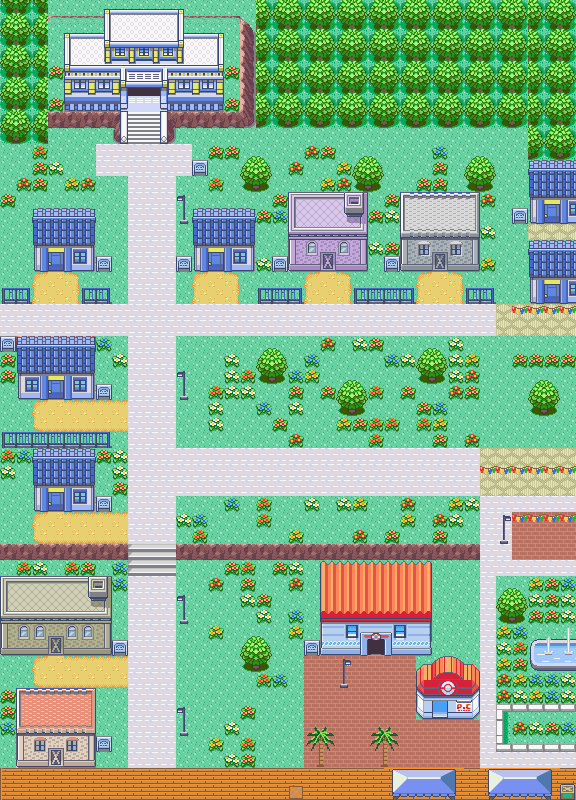
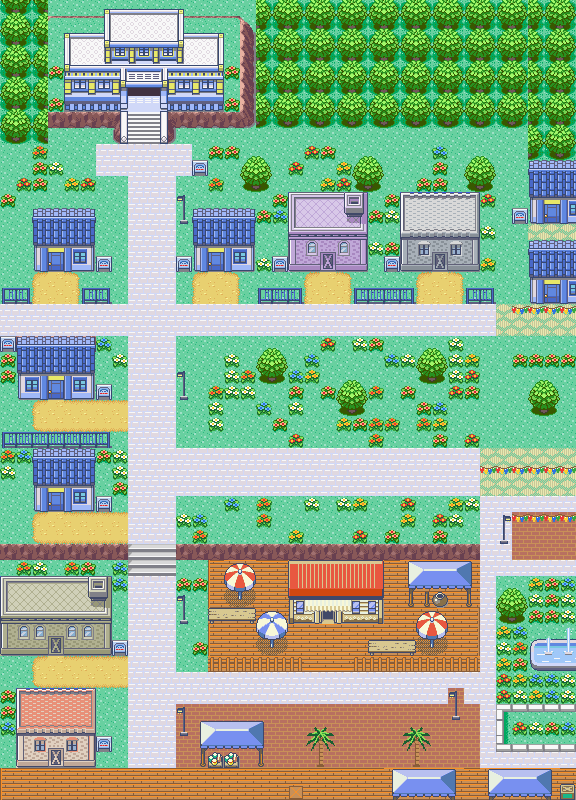
Residential district 1: seaside café replaces the Pokémon Center and harbor building
Route 104's flower shop recoloured as Café Litoral, wooden terrace with Route 109 beach
umbrellas and Seashore House tables, juice kiosk, wooden fence, promenade to the plaza.
Café pieces mapped onto the market palette (slot 11, free index 6 -> coral red).
PC/harbor warps parked on the promenade so whiteout and Fly keep working.

Claude-Session: https://claude.ai/code/session_015nAeBdQj1XXGE9TrWVaT6H

Changed region(s): [[0.2812, 0.6875, 0.8438, 0.9688]]

diff --git a/dev_scripts/lilycove_redesign/layout.py b/dev_scripts/lilycove_redesign/layout.py
@@ -221,14 +221,27 @@ garden(-5,13,14,20,31,skip={(x,y) for x in range(-5,-3) for y in range(13,20)})
 for (tx,ty) in ((0,13),(5,15),(10,13)): tree1(tx,ty)
 garden(-5,23,14,26,32)                                                       # upper level, above the step
 ledge(-5,14,26)                                                             # the step continues east of the street
-harbor(4,27)                                                                # door (7,32)
-brickfill(3,33,14,40); pc(10,33)                                            # Pokémon Center next to the port, door (11,36)
-garden(-5,27,3,40,33,skip={(x,y) for x in range(-5,-3) for y in range(27,40)}); tree1(-1,31)
-for x in (5,): lamp2(x,34,'brick')
-palm(3,37,'brick'); palm(7,37,'brick')
+# --- seaside café (replaces the Pokémon Center and the harbor building) on the lower level
+fill(-5,27,14,40,GRASS)
+deck(-3,14,27,34,posts_below=False)                                         # wooden terrace x -3..13, rows 27..33
+art('cafe',2,27,bottom='dock')                                              # Café Litoral, door (4,30)
+art('tent_pots',9,27,bottom='dock',walk_rows=2)                             # juice kiosk
+art('umbrella_red',-2,27,bottom='dock',walk_rows=1); art('cafe_table',-3,30,bottom='dock')
+art('umbrella_blue',0,30,bottom='dock',walk_rows=1)
+art('umbrella_red',10,30,bottom='dock',walk_rows=1); art('cafe_table',7,32,bottom='dock')
+for x in range(-3,14):                                                      # low wooden fence, entrance at x 3..5
+    if not 3<=x<=5: art('fence_wood',x,33,bottom='dock')
+for (fx,fy) in ((-5,28),(-4,28),(-4,32)): put(fx,fy,FLOWERS)
+palm(-5,31,'grass') if False else None
+paving(-5,34,14,36)                                                         # promenade: street -> plaza
+brickfill(-5,36,14,40)                                                      # brick by the boardwalk
+art('tent_flowers',-4,37,bottom='brick',walk_rows=2)                        # flower stall
+palm(3,37,'brick'); palm(9,37,'brick')
+lamp2(12,36,'brick',facing='left')
 # --- street lamps along the residential street (east kerb, heads towards the street) and the north street
-for y in (5,16,30,37): lamp2(-5,y,'grass',facing='left')
+for y in (5,16,30): lamp2(-5,y,'grass',facing='left')
+lamp2(-5,37,'brick',facing='left')
 for x in (-1,6,13): lamp2(x,10,'paving') if False else None
 bunting(-8,14,21)                                                           # avenue bunting (west part)
-sign(-16,13); sign(3,32); sign(-4,2)                                        # city sign, harbor sign, museum sign
+sign(-16,13); sign(-4,2)                                                    # city sign, museum sign
 for (sx,sy) in ((8,8),(1,8),(-5,8),(-10,8),(16,5)): sign(sx,sy)               # house signs over the gardens

diff --git a/dev_scripts/lilycove_redesign/authentic_art.py b/dev_scripts/lilycove_redesign/authentic_art.py
@@ -133,3 +133,42 @@ def rustboro(x0, y0, w, h):
         for x in range(img.width):
             if p[x, y][3] and p[x, y][:3] in ground: p[x, y] = (0, 0, 0, 0)
     return img
+
+
+def top_layer(prim, sec, ids):
+    """Renders only the TOP layer of some metatiles side by side (furniture over a floor)."""
+    pt, pm = render.load(prim); st, sm = render.load(sec); R = render.R
+    pals = [render.pal(R + prim + '/palettes/%02d.pal' % i) for i in range(6)] + \
+           [render.pal(R + sec + '/palettes/%02d.pal' % i) for i in range(6, 13)]
+    tiles = pt + [None] * (512 - len(pt)) + st; mts = pm + [(0,) * 8] * (512 - len(pm)) + sm
+    out = Image.new('RGBA', (16 * len(ids), 16), (0, 0, 0, 0)); o = out.load()
+    for k, m in enumerate(ids):
+        e = mts[m]
+        for q in range(4):
+            v = e[4 + q]; t = tiles[v & 0x3ff]; hf = v >> 10 & 1; vf = v >> 11 & 1; pl = v >> 12
+            for y in range(8):
+                for x in range(8):
+                    c = t[7 - y if vf else y][7 - x if hf else x]
+                    if c: o[k * 16 + (q % 2) * 8 + x, (q // 2) * 8 + y] = tuple(pals[pl][c]) + (255,)
+    return out
+
+SAND_SHADOW = {(216, 152, 56), (224, 176, 88), (232, 208, 112)}
+def beach_umbrella(x0, y0, shadow=(112, 96, 72)):
+    """Route 109 beach umbrella (2x3); its shadow on the sand becomes a dithered shadow."""
+    im = from_map('Route109', 40, 'secondary/slateport', x0, y0, 2, 3, bg=0x124); p = im.load()
+    for y in range(im.height):
+        for x in range(im.width):
+            if p[x, y][3] and p[x, y][:3] in SAND_SHADOW:
+                p[x, y] = shadow + (255,) if (x + y) % 2 == 0 else (0, 0, 0, 0)
+    return im
+
+def seaside_cafe():
+    """Route 104's Pretty Petal shop (orange roof, striped awning) with warm cream walls."""
+    im = from_map('Route104', 40, 'secondary/rustboro', 3, 15, 6, 4, bg=0x001); p = im.load()
+    for y in range(im.height):
+        for x in range(im.width):
+            r, g, b, a = p[x, y]
+            if a and g > r + 15 and g >= b:          # green walls / boxes -> cream and wood
+                lum = (r + g + b) // 3
+                p[x, y] = ((238, 222, 196) if lum > 170 else (214, 184, 150) if lum > 125 else (156, 120, 92)) + (255,)
+    return im

diff --git a/dev_scripts/lilycove_redesign/port_art.py b/dev_scripts/lilycove_redesign/port_art.py
@@ -76,3 +76,34 @@ _V[9], _V[10], _V[11] = (168, 136, 192), (192, 168, 216), (216, 200, 232)   # li
 PALETTES[10] = _V
 for _n, _src in (('house_grey_coral', 'house_grey'), ('house_beige_lilac', 'house_beige')):
     _CANVAS[_n] = _CANVAS[_src]; PAL_OF[_n] = 10; ART[_n] = (lambda n=_n: _CANVAS[n])
+
+# ---- seaside café (residential district 1): Emerald pieces mapped onto the market palette 11 ----
+# index 6 of palette 11 was unused by the market art: a coral red for roof stripes and umbrellas.
+PALETTES[11] = list(PALETTES[11]); PALETTES[11][6] = (232, 88, 64)
+def _fixed(im, slot):
+    """maps an RGBA image onto an existing palette slot (nearest colour, index 0 = transparent)"""
+    pal = PALETTES[slot]; p = im.load(); cache = {}
+    ok = [i for i in range(1, 16) if pal[i] != (0, 0, 0)]
+    def near(c):
+        if c not in cache: cache[c] = min(ok, key=lambda i: sum((a - b) ** 2 for a, b in zip(pal[i], c)))
+        return cache[c]
+    return [[near(p[x, y][:3]) if p[x, y][3] else 0 for x in range(im.width)] for y in range(im.height)]
+for _n, _mk in (('cafe', A.seaside_cafe),
+                ('umbrella_red', lambda: A.beach_umbrella(9, 6)),
+                ('umbrella_blue', lambda: A.beach_umbrella(24, 3)),
+                ('cafe_table', lambda: A.top_layer('primary/building', 'secondary/seashore_house', [0x218, 0x210, 0x219]))):
+    _CANVAS[_n] = _fixed(_mk(), 11); PAL_OF[_n] = 11; ART[_n] = (lambda n=_n: _CANVAS[n])
+
+def _wood_fence():
+    """low wooden rail fence (palette 6 = festival/dock wood), 16x16, tiles seamlessly"""
+    _, WH, CR, YE, OR, RE, DR, BR, LB, BL, NV, LG, GR, DG, BN, DB = range(16)
+    c = [[0] * 16 for _ in range(16)]
+    for y in (5, 6, 10, 11):                       # two rails
+        for x in range(16): c[y][x] = BN if y in (5, 10) else DB
+    for x0 in (2, 10):                             # two posts per tile
+        for y in range(2, 15):
+            c[y][x0] = DB; c[y][x0 + 1] = OR if y < 13 else BN; c[y][x0 + 2] = BN; c[y][x0 + 3] = DB
+        c[1][x0 + 1] = DB; c[1][x0 + 2] = DB
+        for x in range(x0, x0 + 4): c[15][x] = DB
+    return c
+_CANVAS['fence_wood'] = _wood_fence(); PAL_OF['fence_wood'] = 6; ART['fence_wood'] = lambda: _CANVAS['fence_wood']

diff --git a/docs/lilycove/README.md b/docs/lilycove/README.md
@@ -15,7 +15,6 @@ residencial ao norte, orla com cais ao sul e praia a leste.
 | **Casa 4 (casa do pai)** | (18,10) | Residência do protagonista no roteiro |
 | Fã-clube | (25,10) | |
 | Loja de Departamentos | (44,8) | Prédio alto no canto nordeste |
-| Centro Pokémon | (4,17) | Perto da entrada da Rota 121 |
 | Casa 3 | (10,17) | |
 | **Centro de Concursos** | (27,19) | No eixo central, com jardins e postes |
 | Motel Cove Lily + piscina | (42,17) | Acima da praia |
@@ -119,6 +118,21 @@ O mapa agora tem 80×70. A cidade usa um tileset só dela, `gTileset_LilycoveCit
 gerado por `build_city_tileset.py`. Ele mantém os ids de metatile que a cidade já usava
 (as animações de porta continuam funcionando) e reaproveita o espaço que só servia à
 Rota 121 e ao Safari. Tiles iguais ou espelhados são reaproveitados (espaço livre: ver abaixo).
+
+## Café Litoral (bairro 1, beira do calçadão)
+Substitui o Centro Pokémon e o prédio do Porto. Montado com peças do próprio Emerald:
+* **Café**: a floricultura da Rota 104 (telhado laranja, toldo listrado), com paredes
+  creme e floreiras de madeira no lugar do verde.
+* **Terraço de madeira** (mesmo deck do porto) com **guarda-sóis da praia da Rota 109**
+  (a sombra na areia virou sombra pontilhada sobre a madeira) e **mesas da Seashore House**.
+* **Quiosque de sucos** (barraca do mercado), **cerca baixa de madeira** com entrada
+  alinhada à porta, calçada ligando a rua à praça e calçadão de tijolos com barraca de
+  flores e palmeiras.
+* Tudo na paleta 11 do mercado (o índice 6, que estava livre, virou um vermelho-coral).
+* Placas: letreiro do café, aviso na porta e cardápio do quiosque.
+* O Centro Pokémon e o Porto saíram do mapa. Os warps deles ficam na calçada, para
+  que o renascimento depois de desmaiar e o Fly continuem funcionando, até o Centro
+  ganhar um lugar novo.
 
 ## Orçamento de tiles: sprites, peças genéricas e variações por paleta
 * **Cruzeiro e barcos são sprites** (object events), como o S.S. Tidal e o barco do
